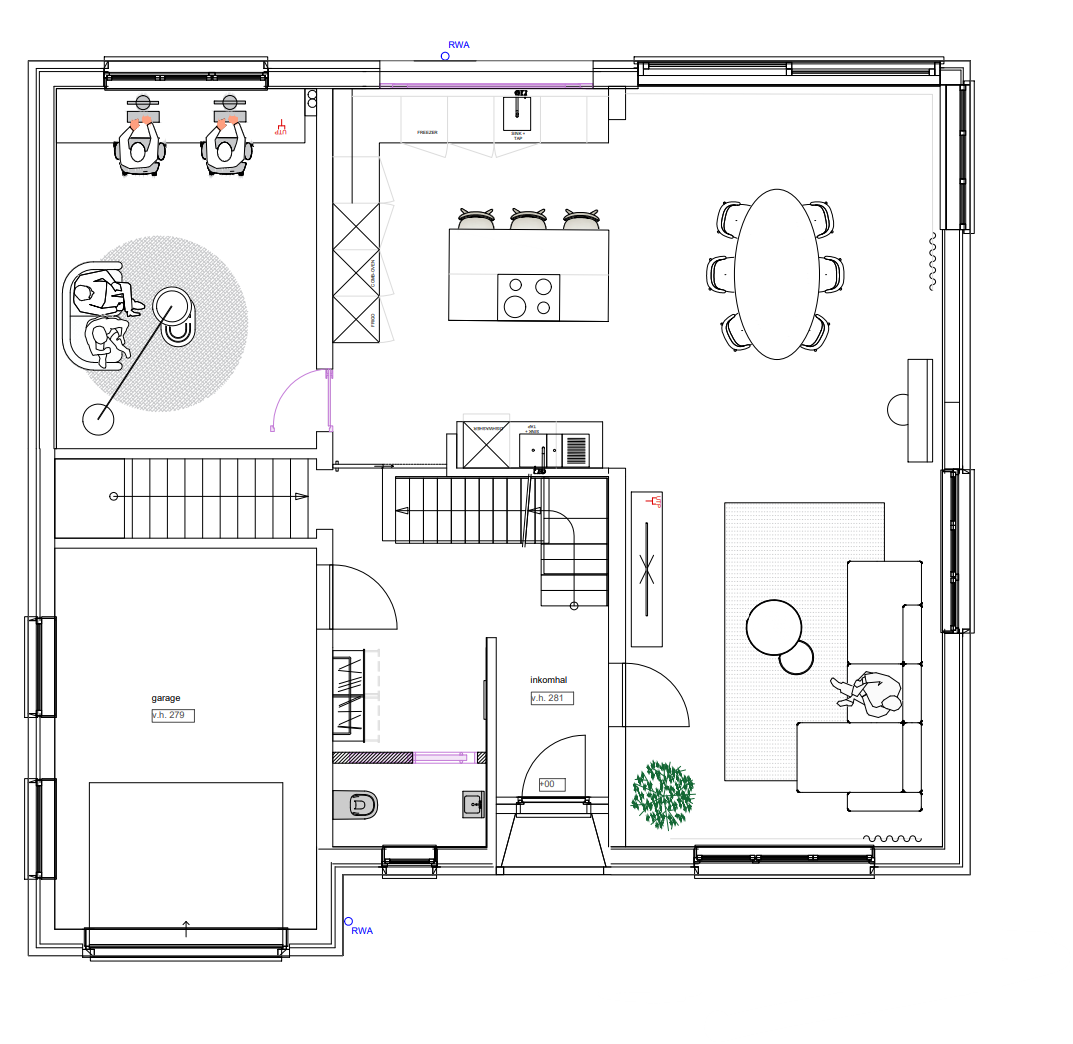
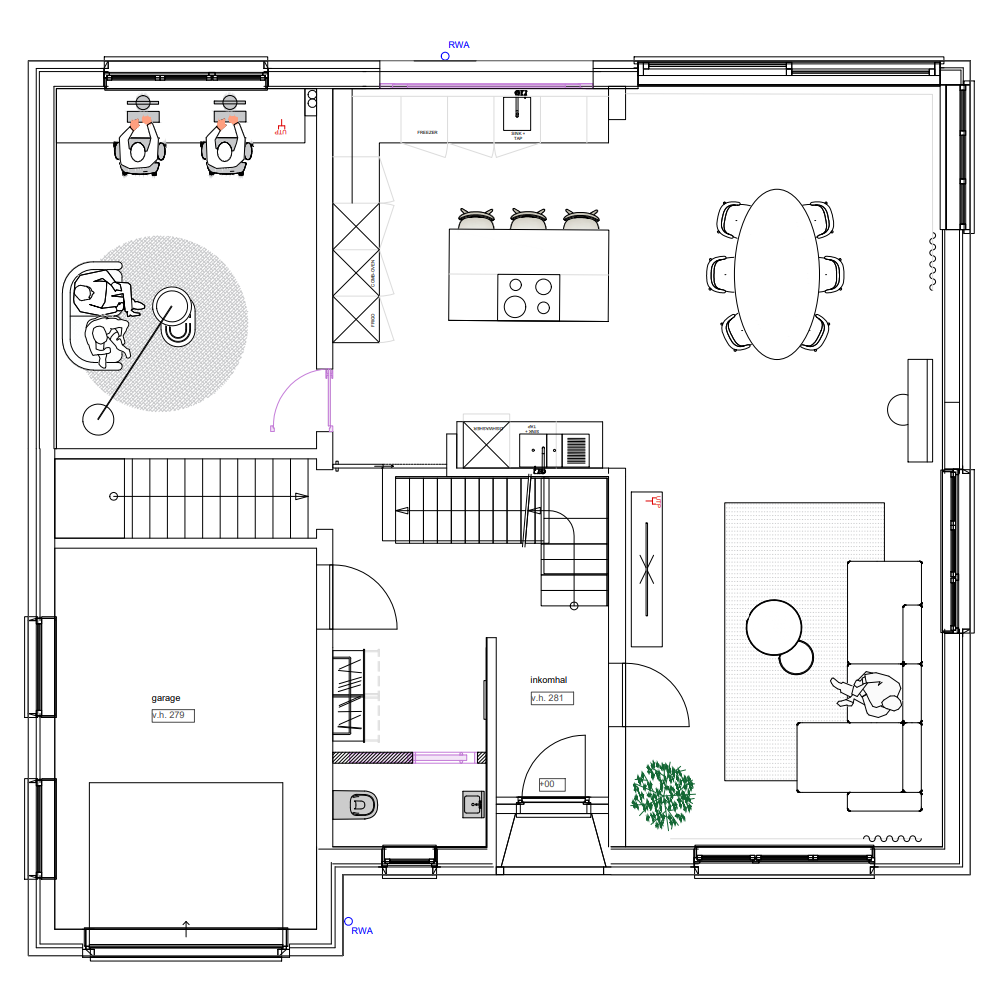
Update Design for N&C carousel with real images (concept, furnished, electrical, technical)
Claude-Session: https://claude.ai/code/session_016VEW28BxbUtGUvzJvXj399

Changed region(s): [[0.0, 0.0305, 0.995, 0.9756], [0.1244, 0.6707, 0.1866, 0.7622], [0.3731, 0.6098, 0.4042, 0.6402]]

diff --git a/private.html b/private.html
@@ -119,7 +119,7 @@ a{color:inherit;text-decoration:none;}
     <p>A private interior design commission for N&C — concept, spatial planning and material selection tailored to the client's home.</p>
     <div class="carousel carousel--doc" data-carousel>
       <div class="carousel__count"><b>1</b> / 4</div>
-      <div class="carousel__track"><div class="carousel__slide" style="background-image:url('images/private/nc-01-technical.png')"></div><div class="carousel__slide" style="background-image:url('images/private/nc-02-furnished.png')"></div><div class="carousel__slide" style="background-image:url('images/private/nc-03-lighting.png')"></div><div class="carousel__slide" style="background-image:url('images/private/nc-04-concept.jpg')"></div></div>
+      <div class="carousel__track"><div class="carousel__slide" style="background-image:url('images/private/nc-01-concept.jpg')"></div><div class="carousel__slide" style="background-image:url('images/private/nc-02-furnished.png')"></div><div class="carousel__slide" style="background-image:url('images/private/nc-03-electrical.png')"></div><div class="carousel__slide" style="background-image:url('images/private/nc-04-technical.png')"></div></div>
       <button class="carousel__btn prev" aria-label="Previous">&larr;</button>
       <button class="carousel__btn next" aria-label="Next">&rarr;</button>
       <div class="carousel__dots"><button aria-label="Show image 1"></button><button aria-label="Show image 2"></button><button aria-label="Show image 3"></button><button aria-label="Show image 4"></button></div>
